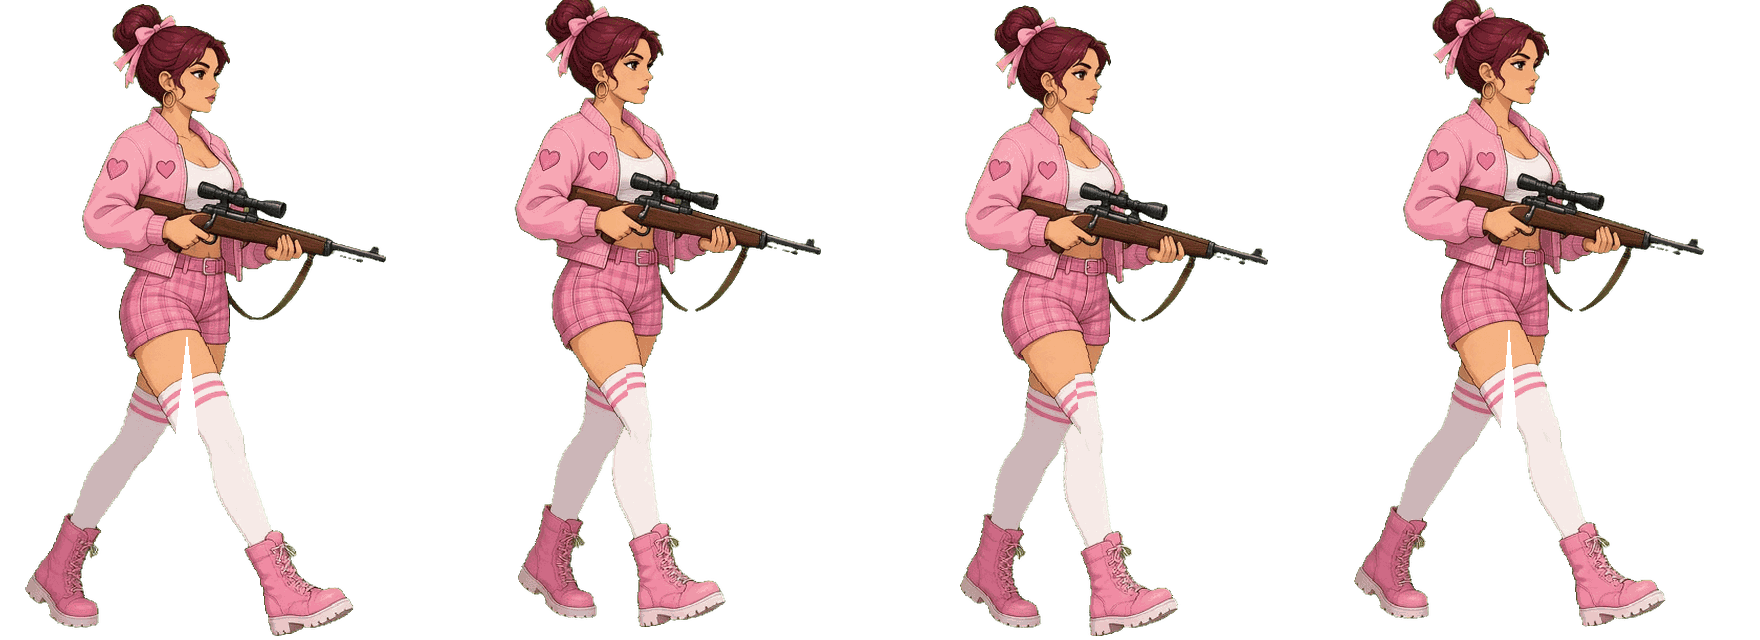
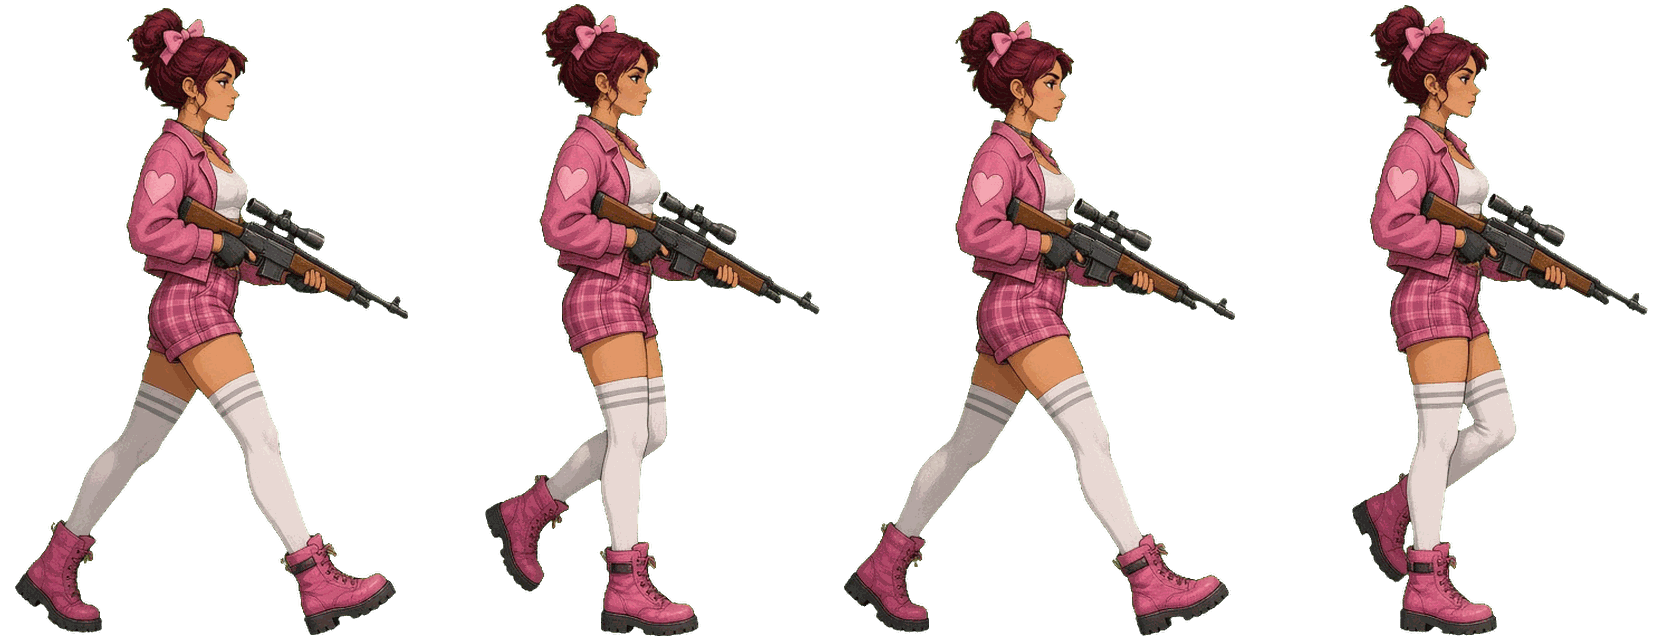
Hand-painted outfit walk strips for all 6 heroines x 2 outfits, credits wording, cache-bust v36

diff --git a/index.html b/index.html
@@ -26,7 +26,7 @@
   <link rel="manifest" href="manifest.webmanifest">
   <link rel="icon" type="image/png" sizes="192x192" href="assets/icons/icon-192.png">
   <link rel="apple-touch-icon" href="assets/icons/apple-touch-icon.png">
-  <link rel="stylesheet" href="css/style.css?v=35">
+  <link rel="stylesheet" href="css/style.css?v=36">
 </head>
 <body>
   <div id="app">
@@ -340,7 +340,7 @@
           <li>Tick Tock Defense 2</li>
         </ul>
         <h3>Sound effects</h3>
-        <p>Custom recordings by gavenecko: gunshot, fire, magic whoosh, upgrade chime, explosion, and three zombie spawn groans.</p>
+        <p>Sound effects supplied by gavenecko: gunshot, fire, magic whoosh, upgrade chime, explosion, and three zombie spawn groans. Other game sounds are generated live in your browser.</p>
         <h3>Type</h3>
         <p>Passion One, &copy; Fontstage, SIL Open Font License 1.1.</p>
         <h3>Tech</h3>
@@ -362,7 +362,7 @@
       </div>
     </div>
   </div>
-  <script src="js/game.js?v=35"></script>
-  <script src="js/pwa.js?v=35"></script>
+  <script src="js/game.js?v=36"></script>
+  <script src="js/pwa.js?v=36"></script>
 </body>
 </html>

diff --git a/sw.js b/sw.js
@@ -9,7 +9,7 @@
  *   instead the full file is fetched once in the background and later Range requests
  *   are answered by slicing that cached copy.
  */
-const VERSION = "35";
+const VERSION = "36";
 const SHELL = "lastgate-shell-v" + VERSION;
 const ASSETS = "lastgate-assets-v" + VERSION;
 const MUSIC = "lastgate-music-1"; // music files rarely change; kept across versions

diff --git a/js/game.js b/js/game.js
@@ -964,7 +964,7 @@
       sheet.decoding = "async";
       sheet.onload = () => { walks[key] = sheet; outfitWalk[key] = "ok"; };
       sheet.onerror = () => { outfitWalk[key] = "err"; };
-      sheet.src = "assets/outfits/" + k + "-" + o + "-walk.png";
+      sheet.src = "assets/outfits/" + k + "-" + o + "-walk.png?v=36";
     }
     return k;
   }
